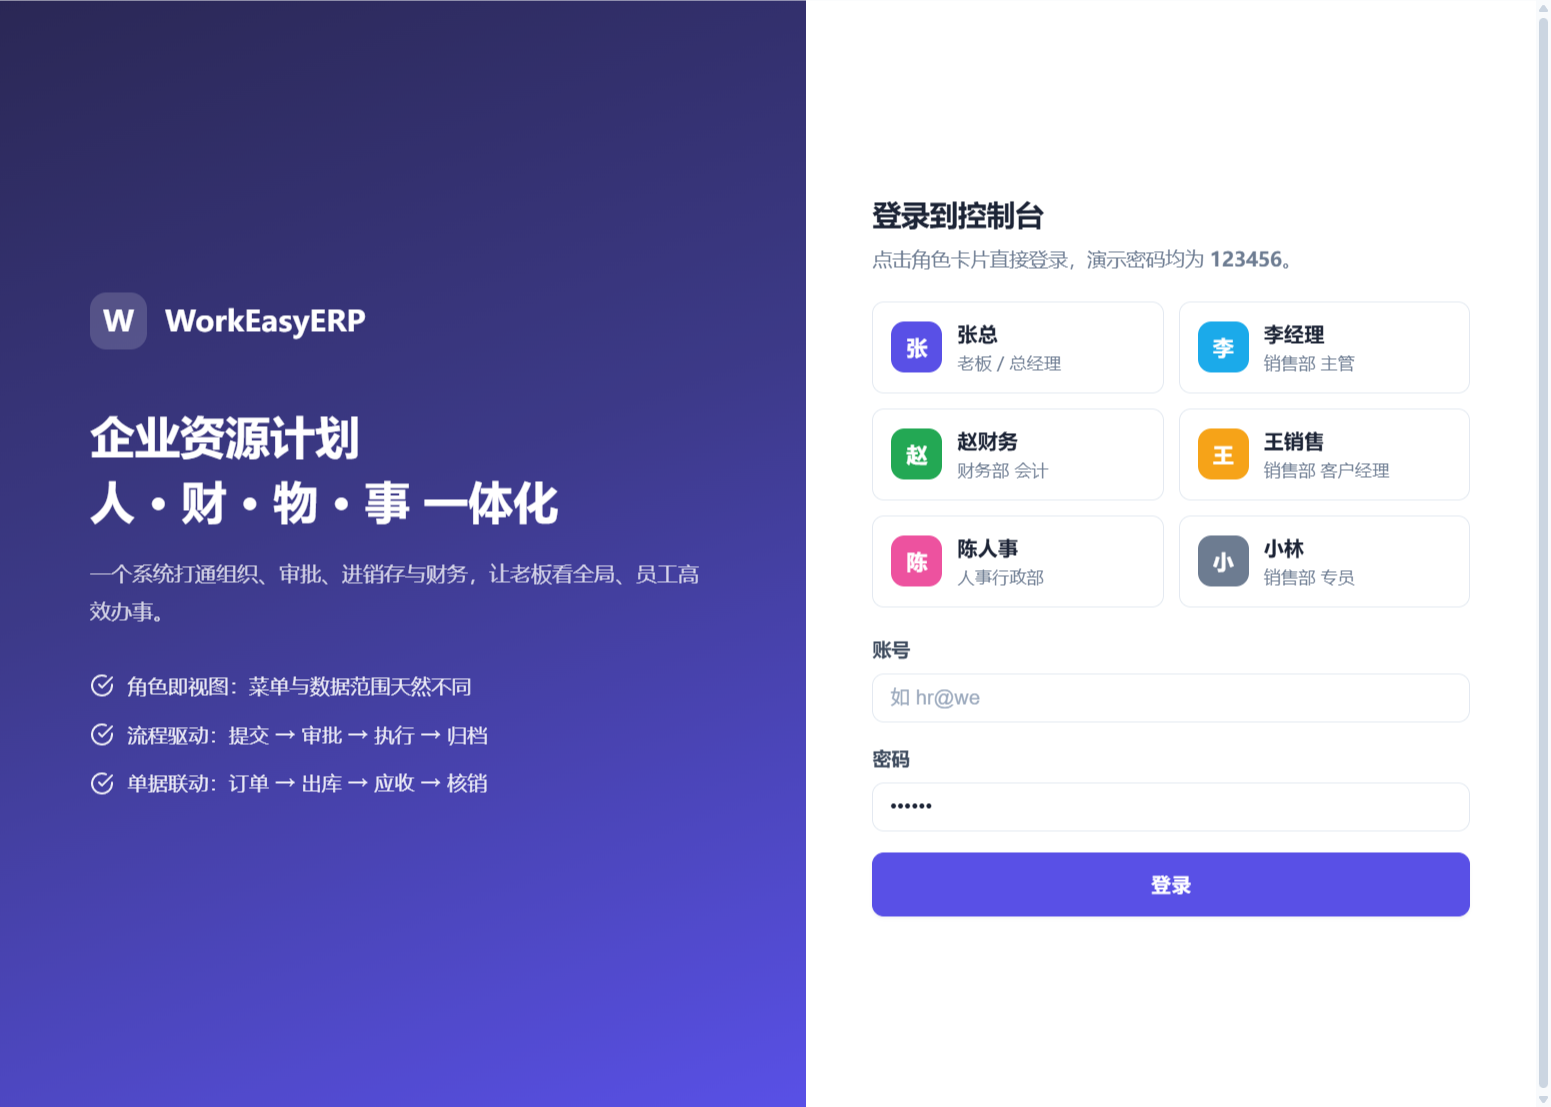
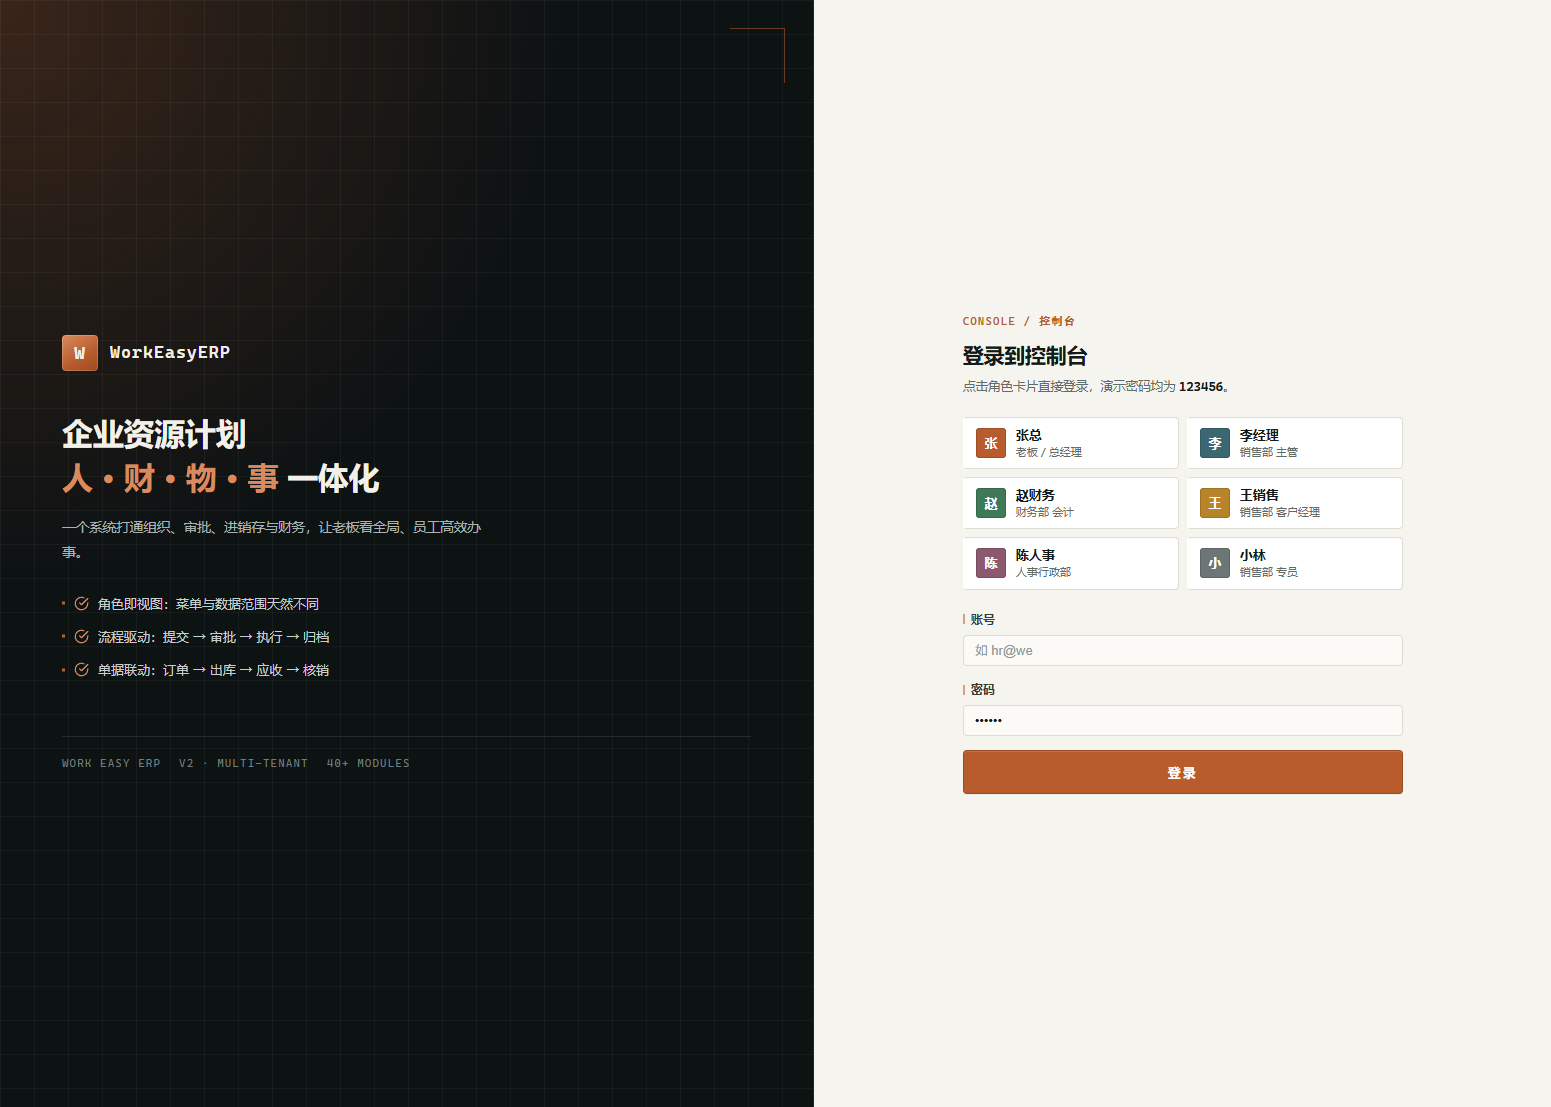
docs: README 补充小程序预览与墨青工业风截图
- 界面预览新增「B2B 订货商城」小程序分区（登录、选商户、首页、详情、购物车、结算、订单、对账单、地址、我的）
- 重新截取 Web 端截图，工作台展示真实订单产生的营收/毛利数据
- 更新特性、技术栈、目录结构与模块概览，标注 SaaS 多租户与商城进展

diff --git a/README.md b/README.md
@@ -13,6 +13,7 @@
 - 📋 **OA 审批协同**：待办中心、消息中心、通用假勤（加班/补卡/外出/出差）、流程配置与单据打印（PDF）。
 - 📦 **供应链**：采购申请 → 采购/销售订单 → 出入库履约 → 退货红冲、库存现量、盘点、批次效期预警。
 - 🤝 **CRM**：客户、线索、商机、合同，阶段推进与转化闭环。
+- 📱 **B2B 订货商城**：微信小程序（uni-app）+ ERP 商城后台，商品 / 购物车 / 订单 / 账期与微信支付 / 对账单 / 售后全链路。
 - 🔐 **字段级权限脱敏**：成本 / 毛利 / 薪资等敏感字段按角色脱敏。
 - 🌐 **多币种汇率**：多币种维护与汇率换算，适配外贸场景。
 - 📊 **自定义报表 + 仪表盘**：操作审计、灵活报表、工作台看板。
@@ -21,7 +22,7 @@
 
 ## 🖼 界面预览
 
-> 以下截图取自真实运行环境（演示种子数据）。
+> 以下截图取自真实运行环境（演示种子数据），界面统一采用「墨青工业风」设计令牌：墨青深色导航、纸白底纹与铜橙强调色，数字统一等宽呈现。
 
 ![工作台](screenshots/we-dashboard.png)
 
@@ -36,6 +37,27 @@
 | ![多币种汇率](screenshots/we-fx.png) | ![角色与权限](screenshots/we-role-perm.png) |
 | **多币种汇率** · 币种卡片与汇率维护 | **角色与权限** · 按角色勾选授权 |
 
+### 📱 小程序 · B2B 订货商城
+
+> 微信小程序（uni-app）沿用同一套「墨青工业风」令牌：墨青会员卡、纸白商品卡、铜橙价格与等宽数字；价格由后端按协议价 / 等级价实时计算。以下截图取自 uni-app H5 渲染（同一套代码运行于微信小程序）。
+
+| | |
+|---|---|
+| ![微信登录](screenshots/we-mall-login.png) | ![选择商户](screenshots/we-mall-tenant.png) |
+| **微信登录** · 授权后进入 | **选择商户** · 多租户切换 / 邀请码加入 |
+| ![商城首页](screenshots/we-mall-home.png) | ![商品详情](screenshots/we-mall-product.png) |
+| **商城首页** · 轮播、分类与专属价 | **商品详情** · 起订量、步进与可售量 |
+| ![购物车](screenshots/we-mall-cart.png) | ![确认订单](screenshots/we-mall-confirm.png) |
+| **购物车** · 勾选与实时小计 | **确认订单** · 微信 / 账期 / 线下打款 |
+| ![支付结果](screenshots/we-mall-result.png) | ![我的订单](screenshots/we-mall-orders.png) |
+| **支付结果** · 支付成功即生成销售订单 | **我的订单** · 全状态筛选 |
+| ![对账单](screenshots/we-mall-statement.png) | ![收货地址](screenshots/we-mall-address.png) |
+| **对账单** · 授信额度与账龄 | **收货地址** · 默认地址与多地址管理 |
+
+![我的](screenshots/we-mall-mine.png)
+
+**我的** · 墨青会员卡、订单快捷入口与对账单 / 售后 / 地址菜单
+
 ---
 
 ## 🧱 技术栈
@@ -43,6 +65,7 @@
 | 层 | 技术 |
 |---|---|
 | 前端 | Vue 3 · Vite · TypeScript · Vue Router · Axios · 原生 CSS（设计令牌 `web/src/styles/tokens.css`） |
+| 小程序 | uni-app（Vue 3）· 微信小程序 · SCSS 设计变量 `miniapp/uni.scss` |
 | 后端 | Kotlin · Spring Boot 3.4 · Spring Data JPA · Flyway · JWT |
 | 数据库 | PostgreSQL 15 |
 | 其他 | Apache PDFBox（单据打印）· Apache POI（Excel 导出）· spring-security-crypto（口令加密） |
@@ -59,8 +82,12 @@ WorkEasyERP/
 │       ├── components/  # 通用组件（TableShell / AppModal / AppPager / EmptyState …）
 │       ├── utils/       # 表单注册表、菜单配置、格式化与状态字典
 │       └── styles/      # 设计令牌 tokens.css
+├── miniapp/             # B2B 订货商城：uni-app（Vue 3）微信小程序
+│   └── pages/           # 首页 / 商品 / 购物车 / 订单 / 对账单 / 售后 / 地址 …
 ├── server/              # 后端：Kotlin + Spring Boot（Gradle 包装器已自带）
-│   └── src/main/resources/db/migration/   # Flyway 迁移 V1–V23（含种子数据）
+│   └── src/main/resources/db/migration/
+│       ├── platform/    # 平台库迁移（租户注册 / 平台会员 / 渠道配置）
+│       └── tenant/      # 租户库迁移 V1–V29（含种子数据，每个租户库各跑一次）
 ├── screenshots/    # README 界面预览截图
 ├── docker-compose.yml   # PostgreSQL 15 一键起库
 └── README.md
@@ -88,7 +115,8 @@ cd server
 ./gradlew bootRun
 ```
 - 默认端口：`18080`，上下文路径：`/api`
-- 首次启动 Flyway 自动建表并执行 V1–V23 迁移，写入种子数据。
+- 首次启动自动创建平台库 `workeasy_platform`（复用 `spring.datasource` 账号，需 **CREATEDB** 权限；Docker 默认账号为超级用户，无需额外配置），登记 `default` 租户，再执行租户库 `db/migration/tenant` 迁移与种子数据。
+- 已有 `workeasy` 库会原地升级：迁移文件搬家不改变版本号与内容，`flyway_schema_history` 不会重复执行。
 
 ### 3. 启动前端
 ```bash
@@ -100,7 +128,7 @@ npm run dev
 - 浏览器访问：<http://127.0.0.1:5180>
 
 ### 演示数据
-首次启动由服务端自动初始化演示组织、部门、员工与账号（见 `server` 端 `DataInitializer`，仅在用户表为空时执行）。**演示口令为开发默认值，生产环境请立即修改。**
+首次启动由服务端自动初始化演示组织、部门、员工与账号（见 `server` 端 `DataInitializer`，**仅 `dev` profile 且用户表为空时执行**）。生产环境设置 `SPRING_PROFILES_ACTIVE=prod` 即关闭演示数据，改由租户开通接口创建管理员。**演示口令为开发默认值，生产环境请立即修改。**
 
 ### 生产构建
 ```bash
@@ -122,6 +150,7 @@ cd server && ./gradlew bootJar
 | 财务 | 应收/应付台账、收付款核销、发票、采购/销售对账、报销 |
 | 供应链 | 采购申请、采购/销售订单、出入库履约、退货、库存、盘点、批次效期 |
 | CRM | 客户、线索、商机、合同 |
+| B2B 商城 | 小程序订货（商品 / 购物车 / 订单 / 售后）、商城后台（绑定审核 / 商城订单 / 支付流水 / Banner / 邀请码） |
 | 系统 | 角色权限、操作审计、基础数据、多币种汇率、附件 |
 
 ---
@@ -131,6 +160,28 @@ cd server && ./gradlew bootJar
 - **工作流引擎**：可视化节点设计 + 条件分支 + 审批人解析，承载复杂审批链与可审计的节点权限/时效。
 - **业财一体化**：业务动作（如入库/出库审核）触发财务凭证自动生成，形成「业务流 → 财务流 → 数据流」闭环。
 - **安全**：JWT 鉴权；字段级脱敏（成本/毛利/薪资按角色）；统一异常处理不向客户端泄露堆栈与内部细节。
+
+### 多租户（SaaS 阶段一）
+- **一租户一库**：平台库 `workeasy_platform` 只存租户注册、平台会员与支付渠道配置；业务表全部落在租户自己的 database。
+- **运行时路由**：`TenantContext`（请求线程）→ `TenantRoutingDataSource` → 租户 Hikari 池；`default` 租户复用 `spring.datasource`，单租户部署行为不变。
+- **租户解析顺序**：员工 JWT 的 `tid`（权威）> 未登录接口的 `X-Tenant-Code` > 开发默认 `default`。带 `tid` 的请求若显式传其他 `X-Tenant-Code` 一律 403，禁止仅凭客户端参数跨租户。
+- **两套迁移**：`db/migration/platform` 与 `db/migration/tenant` 由 `TenantBootstrap` 显式执行，启动顺序不依赖 Flyway 自动配置。
+- **附件隔离**：非 default 租户落盘到 `data/uploads/{tenantCode}/`，default 沿用原目录，历史附件可继续读取。
+
+租户开通（平台令牌鉴权，幂等、可重试，过程写 `tenant_provision_log`）：
+
+```bash
+curl -X POST http://127.0.0.1:18080/api/platform/tenants \
+  -H "Content-Type: application/json" \
+  -H "X-Platform-Token: workeasy-dev-platform-token" \
+  -d '{"code":"acme","name":"Acme 贸易","adminUsername":"admin","adminPassword":"acme123456"}'
+
+# 登录新租户（也可在请求体传 tenantCode）
+curl -X POST http://127.0.0.1:18080/api/auth/login \
+  -H "Content-Type: application/json" \
+  -H "X-Tenant-Code: acme" \
+  -d '{"username":"admin","password":"acme123456"}'
+```
 
 ### 前端工程化
 - **声明式表单**：各类「新建 / 发起」表单的字段、校验与提交登记在 `web/src/utils/entityForms.ts`，由统一的 `EntityCreateView` 渲染，避免每个视图重复实现一套表单逻辑。
@@ -142,8 +193,8 @@ cd server && ./gradlew bootJar
 
 ## ⚠ 部署前注意事项（重要）
 
-1. **修改敏感配置**：上线前务必替换 `application.yml` 中的 JWT 签名密钥与数据库口令（当前为开发默认值）。
-2. **外部化配置**：建议通过环境变量或配置中心注入密钥/口令，避免提交到仓库。
+1. **修改敏感配置**：上线前务必替换 `application.yml` 中的 JWT 签名密钥、数据库口令、平台库口令与 `workeasy.platform.admin-token`（当前为开发默认值）。
+2. **外部化配置**：建议通过环境变量或配置中心注入密钥/口令，避免提交到仓库；平台库可用 `PLATFORM_DB_URL` / `PLATFORM_DB_USERNAME` / `PLATFORM_DB_PASSWORD` 覆盖，租户口令密文密钥用 `TENANT_DB_SECRET`。
 3. **忽略构建产物**：上传仓库前请添加 `.gitignore`，忽略 `server/build/`、`server/data/`、`server/boot.log`、`web/node_modules/`、`web/dist/` 等。
 4. **开发脚本**：根目录下的 `*.sql` 编码修复脚本与 `endpoints.txt` 为本地排查用产物，请勿纳入生产部署。
 
@@ -151,8 +202,14 @@ cd server && ./gradlew bootJar
 
 ## 🗺 下一阶段开发计划
 
-- 📱 **移动端联动适配**：在现有 Web 响应式基础上，推进移动端（App / 小程序）与 PC 端的数据与流程联动，支持移动审批、移动打卡、消息推送等随身办公场景。
-- 🧩 **扩展更多 ERP 服务**：持续补齐企业级 ERP 能力，例如生产制造（MRP / 工单 / 质检）、预算管理、项目管理、文档/知识库、资产管理、会议/用印等模块，进一步完善业财一体化覆盖面。
+定位从「通用 ERP」收敛为 **商业进销存 + B2B 订货商城 + SaaS 多租户**，生产制造（MRP / 工单 / 质检）不在本期规划内。
+
+- 🏢 **SaaS 多租户**：平台库 + 租户独立数据库；租户开通、停用、备份与数据源路由，现有单租户部署保持无感运行。
+- 🧩 **商业进销存深化**：商品图片与上下架、等级价 / 协议价、库存锁定、调拨单、授信闭环、商品动销与库存周转报表。
+- 📱 **B2B 订货商城**：**平台统一微信小程序**（uni-app / HBuilderX，租户在小程序内选择切换）+ ERP 商城后台，覆盖商品、购物车、订单、账期 / 微信支付、对账单与售后（小程序端与商城后台已落地，持续补全）。
+- 🔗 **线上线下一体化**：商城订单支付成功自动生成销售订单、锁定库存并写入应收，发货走既有出库与履约流程。
+
+完整方案、阶段拆分与验收标准见 [DOCS/下一阶段开发计划.md](DOCS/下一阶段开发计划.md)。
 
 > 💬 **定制需求**：如有个性化功能定制、私有化部署或行业适配需求，欢迎在仓库 Issue / 讨论区留言，我们会跟进评估。
 
